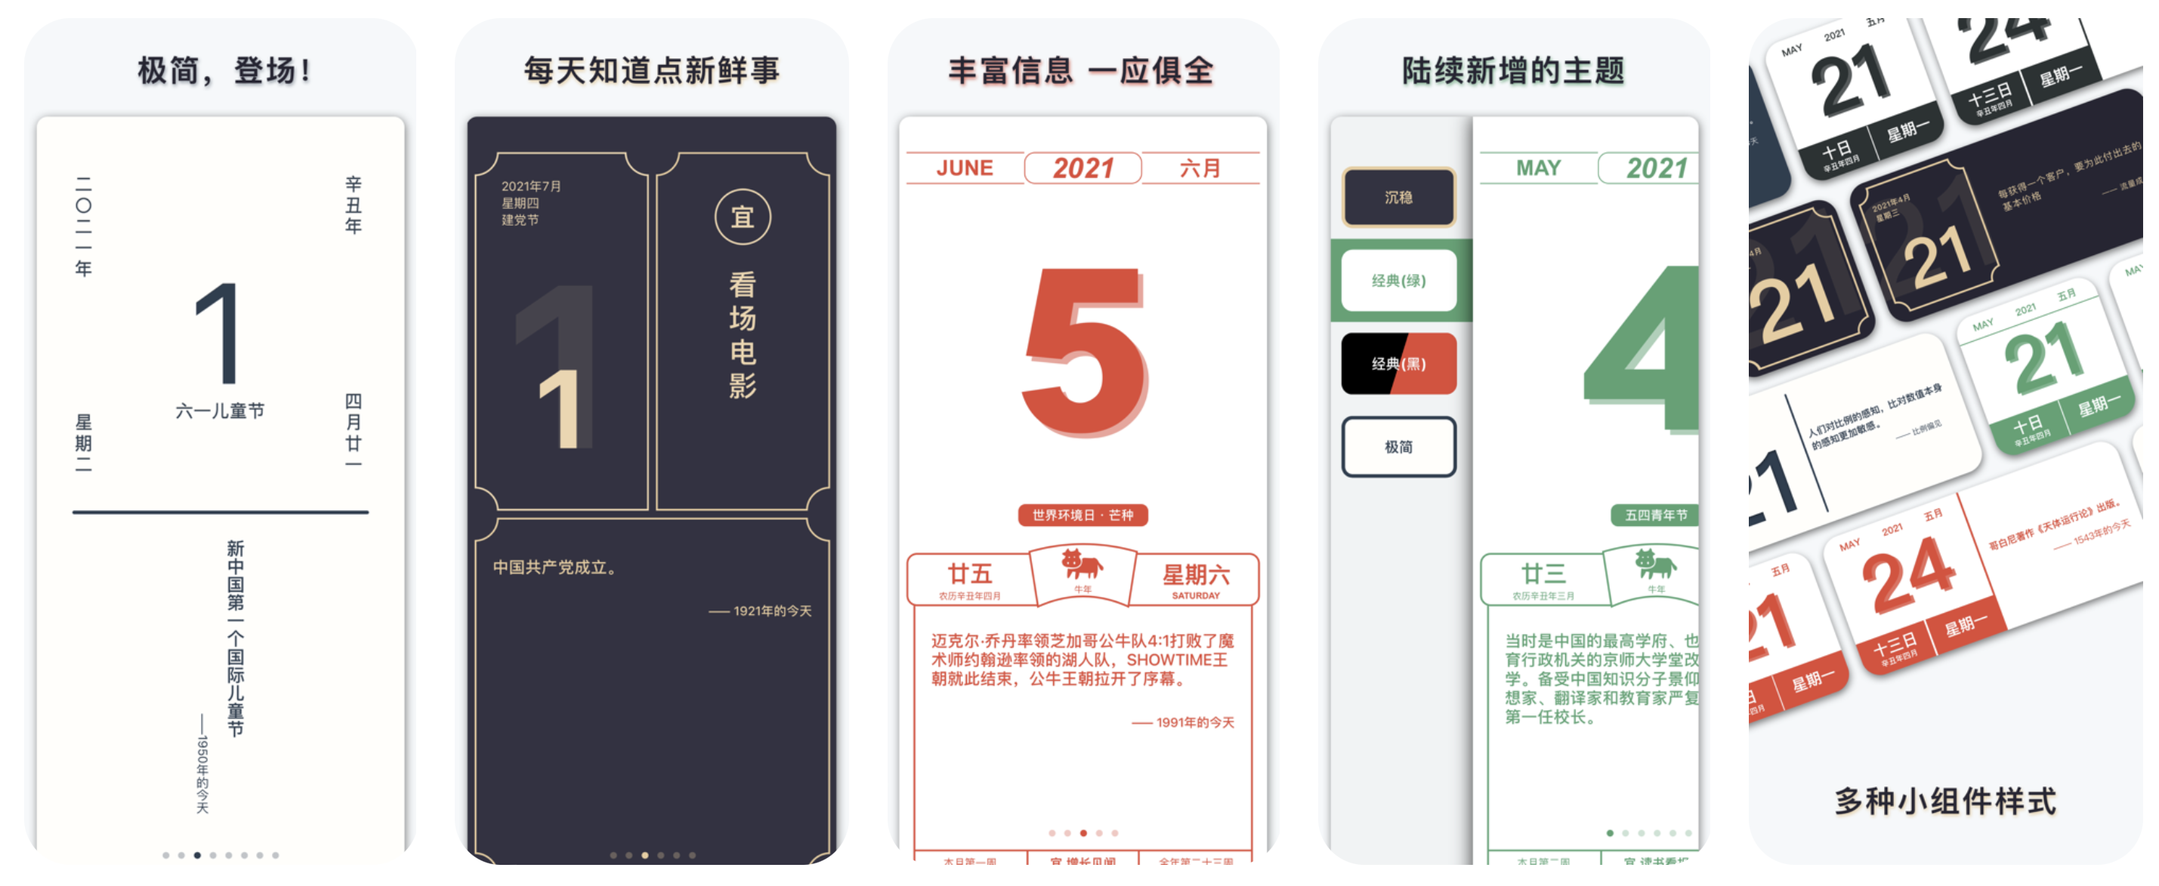
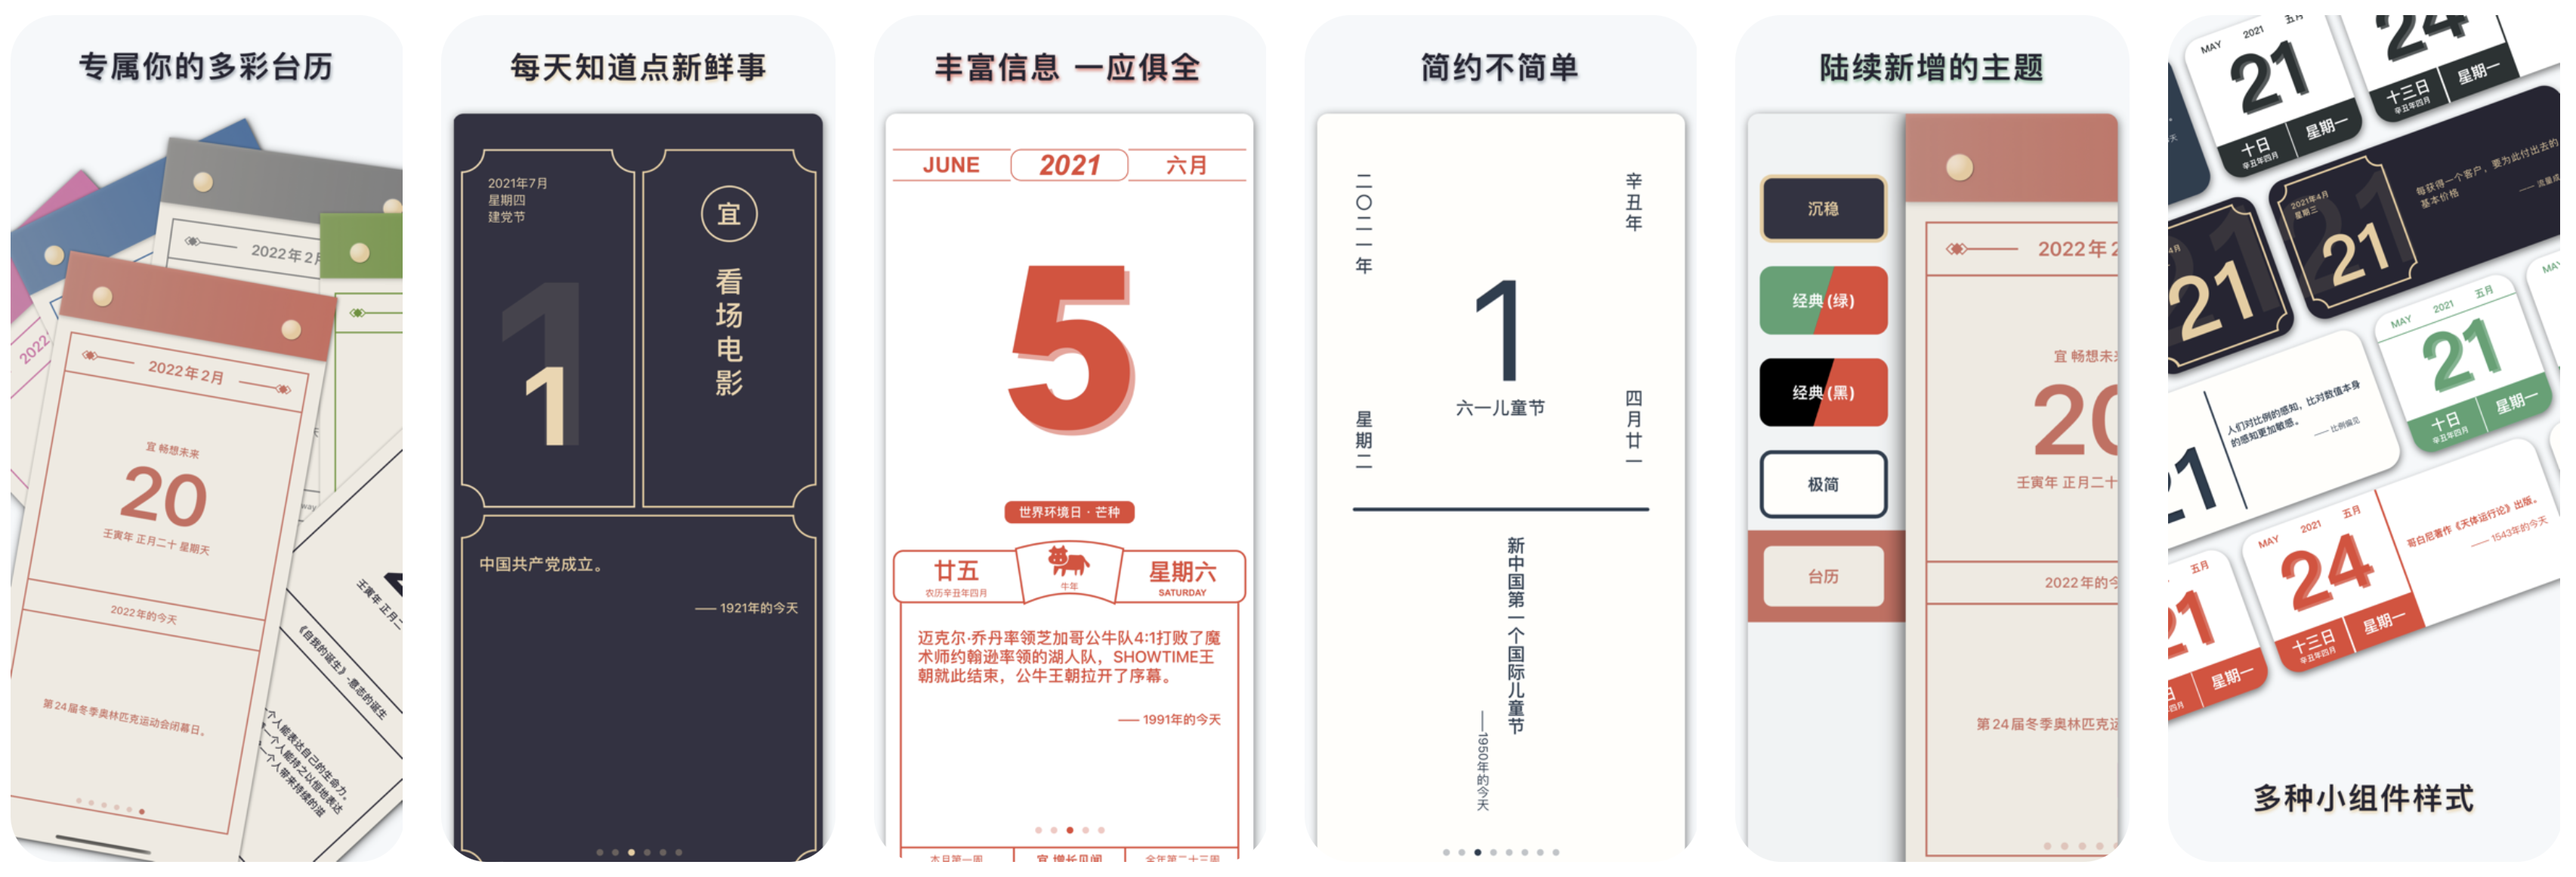
更新两个应用主页的内容

diff --git a/source/_posts/techsupport-calendar.md b/source/_posts/techsupport-calendar.md
@@ -1,17 +1,18 @@
 ---
-title: 见闻历技术支持
+title: 「见闻历」 - 见历史，闻新知
 date: 2021-06-07 17:21:42
 tags:
 - 技术支持
 - 见闻历
 comments: true
+top: 3
 ---
 
-![](/uploads/techsupport-calendar/presentation.png)
+![](/uploads/techsupport-calendar/presentation.png)为你提供每日灵感与知识，给日常生活加点料
 
-{% btn https://apps.apple.com/cn/app/%E8%A7%81%E9%97%BB%E5%8E%86-%E8%A7%81%E5%8E%86%E5%8F%B2-%E9%97%BB%E6%96%B0%E7%9F%A5/id1561793282, Download on the App Store, fab fa-apple fa-lg fa-fw %}
-
+{% btn https://itunes.apple.com/app/id1561793282, Download on the App Store, fab fa-apple fa-lg fa-fw %}
 <!-- more -->
+<p></p>
 
 给平平无奇的日历加点内容，让简简单单的生活充满趣味！
 将手边的电子设备利用起来，妈妈再也不用担心我没有台历，不记得日子了！

diff --git a/source/_posts/techsupport-drinkmore.md b/source/_posts/techsupport-drinkmore.md
@@ -1,18 +1,19 @@
 ---
-title: 好好喝水技术支持
+title: 「好好喝水」 - 喝水也可以很有成就感
 date: 2021-03-05 13:52:42
 tags:
 - 技术支持
 - 好好喝水
 comments: true
+top: 2
 ---
 
 ![](/uploads/techsupport-drinkmore/drinkmore-presentation.png)
 
-{% btn https://apps.apple.com/cn/app/%E5%A5%BD%E5%A5%BD%E5%96%9D%E6%B0%B4-%E9%9A%8F%E6%97%B6%E6%8E%8C%E6%8F%A1%E8%87%AA%E5%B7%B1%E7%9A%84%E5%96%9D%E6%B0%B4%E7%8A%B6%E5%86%B5/id1549095897, Download on the App Store, fab fa-apple fa-lg fa-fw %}
-
+{% btn https://itunes.apple.com/app/id1549095897, Download on the App Store, fab fa-apple fa-lg fa-fw %}
 
 <!-- more -->
+<p></p>
 
 - 你有没有听到“多喝水”的嘱咐却不知道怎么才算“多”的时候？
 - 你会不会感觉一天下来已经喝很多水了，临睡觉又觉得口渴了？
